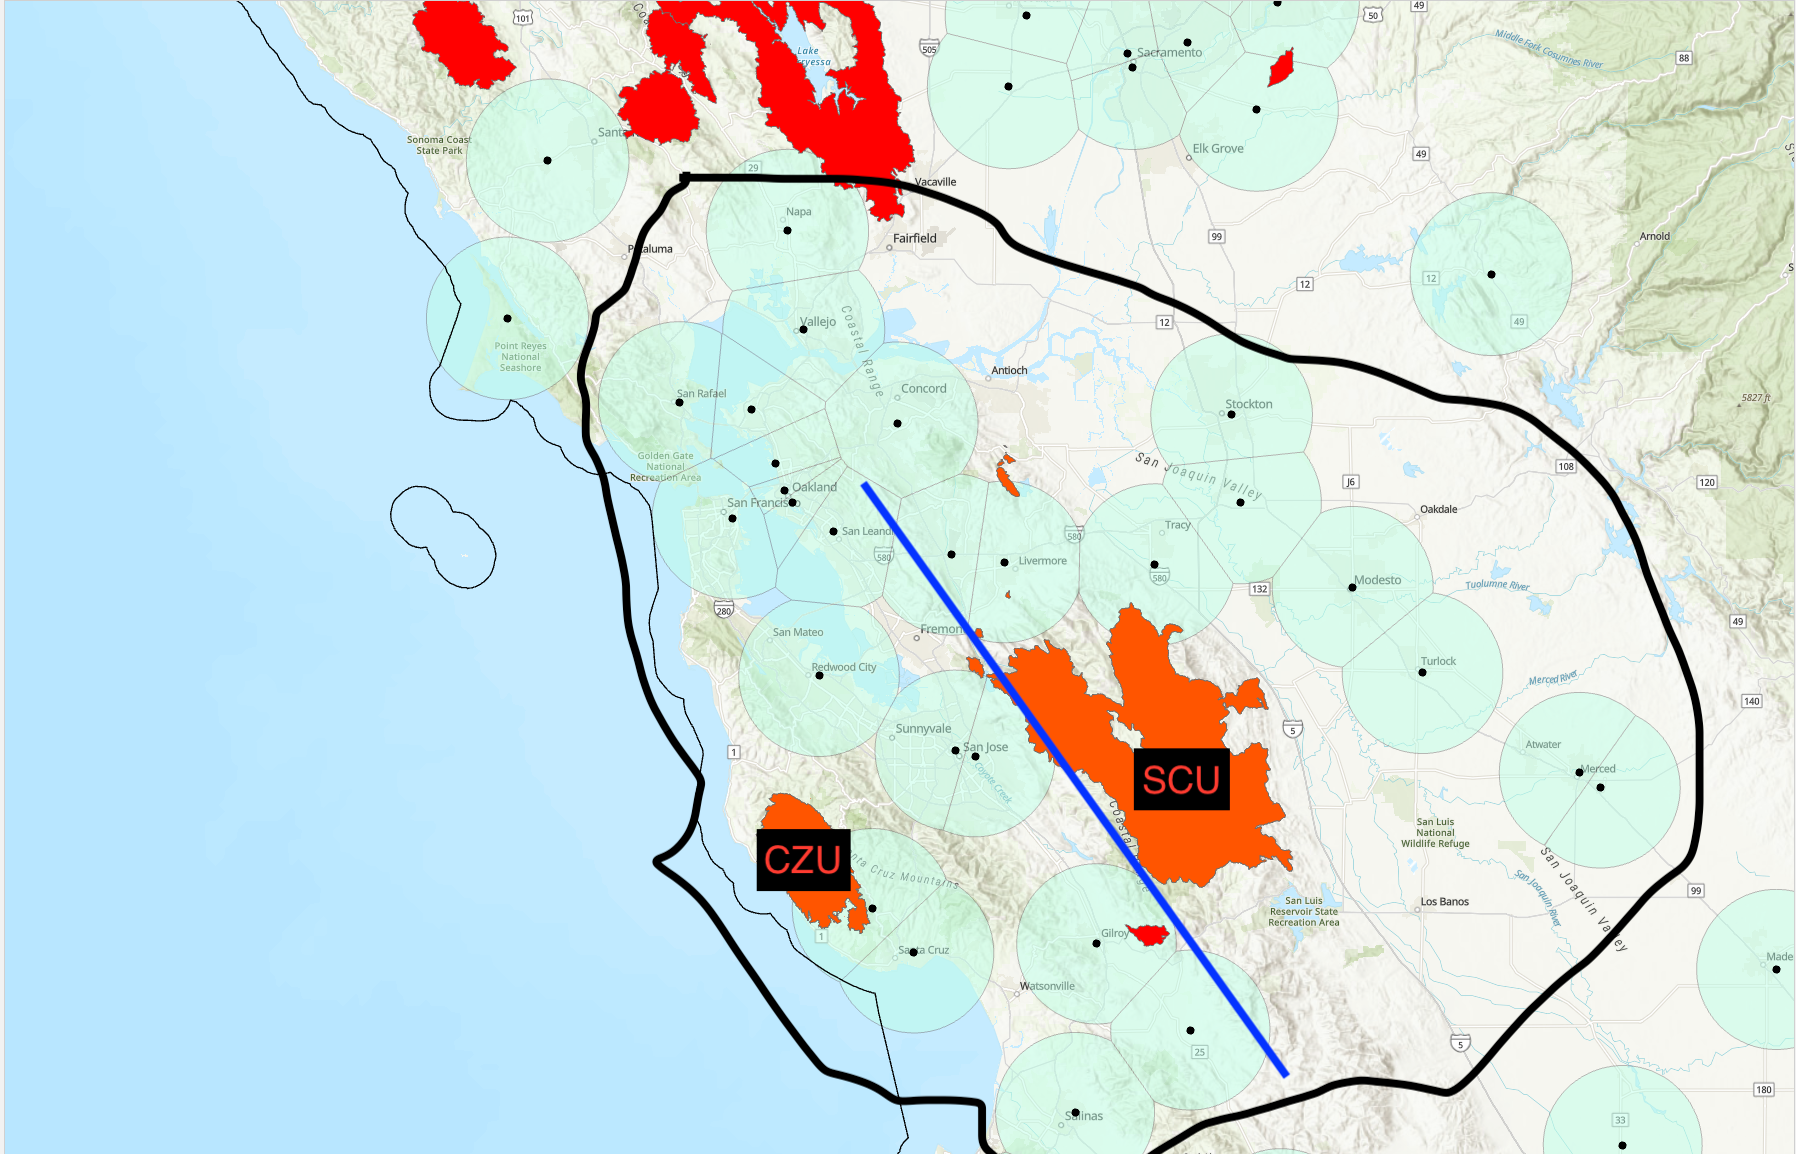
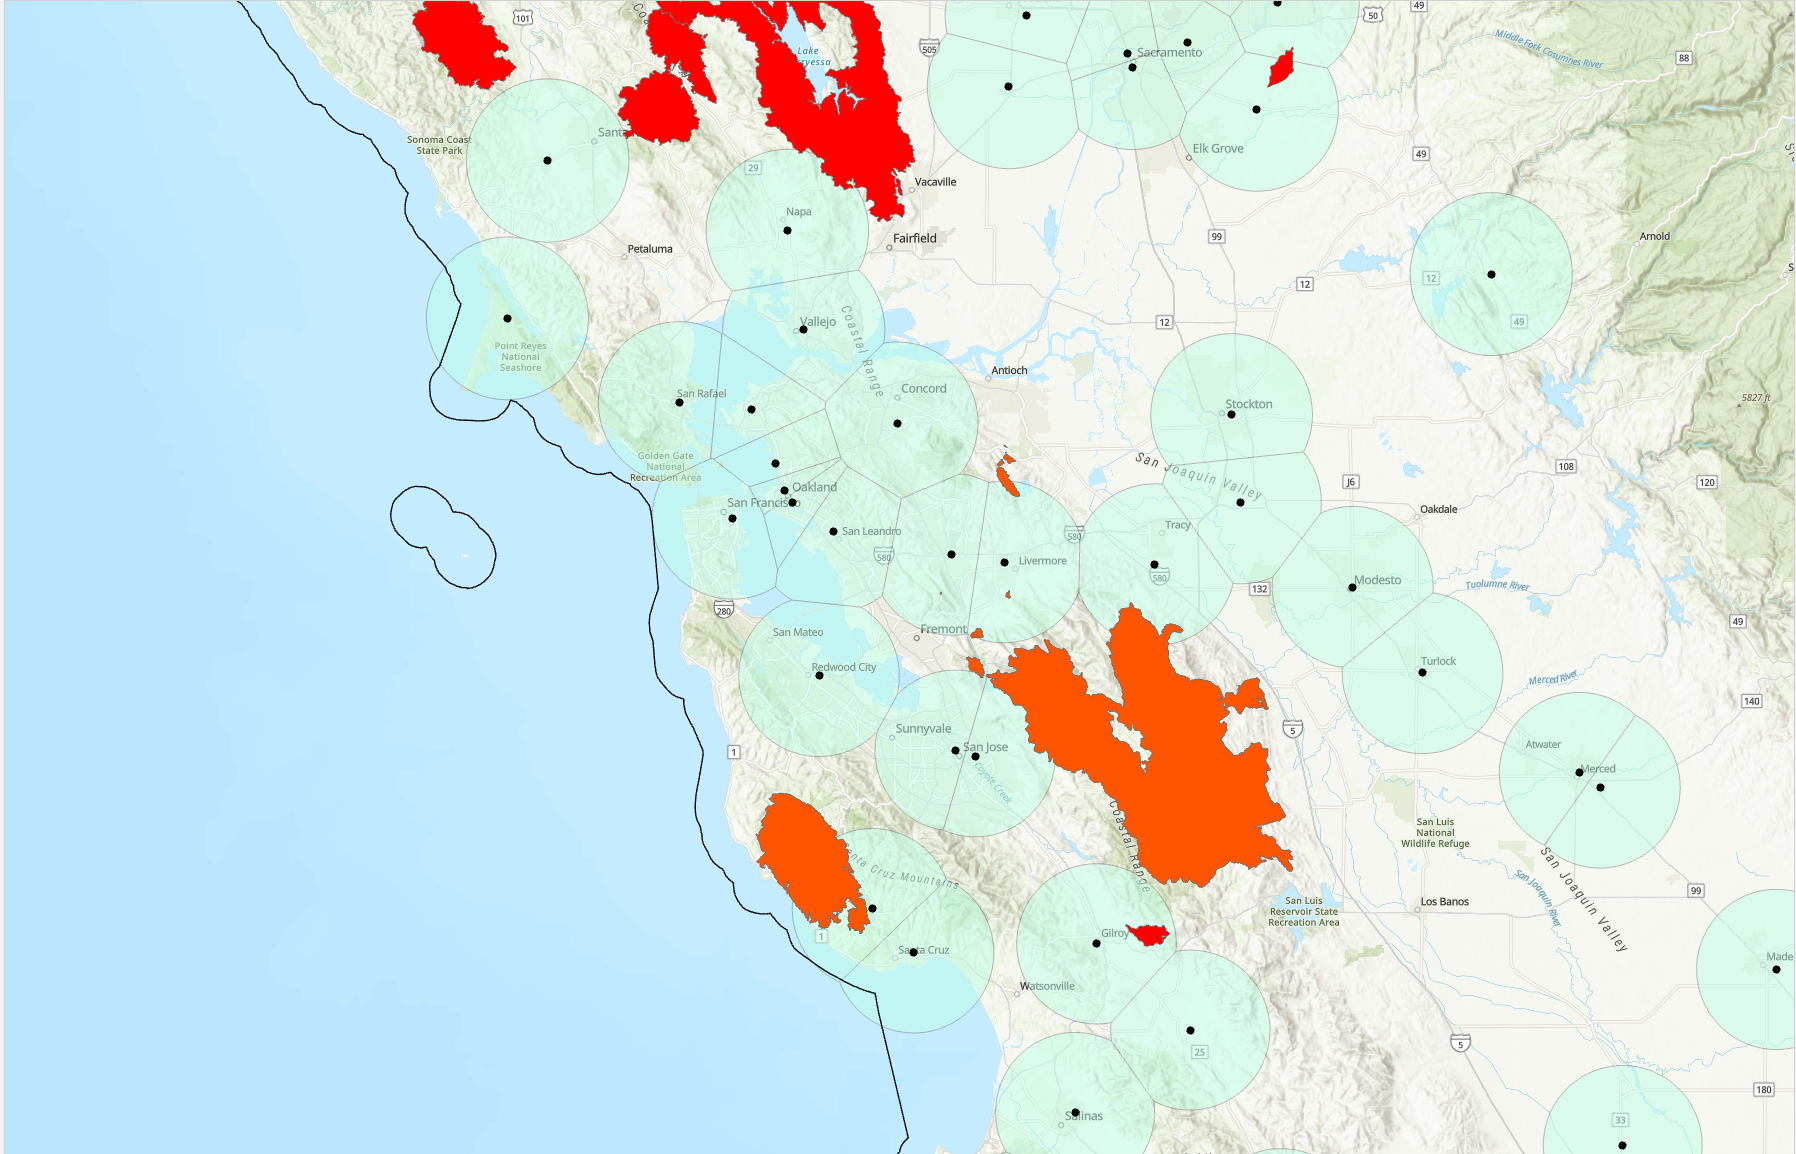
17th commit

diff --git a/content/post_1.md b/content/post_1.md
@@ -75,7 +75,7 @@ Mobility & AQI:
 ![valley-result](/./post_1_files/Valley-result.png)
 
 # Fire case 3: SCU Lightning Complex
-![SCU](/./post_1_files/silicon valley fire.png)
+![CZU-fire](/./post_1_files/SCU_CZU_fire.png)
 
 Start Date: 08/18/2020 
 
@@ -89,7 +89,8 @@ Mobility & AQI:
 ![scu-result](/./post_1_files/SCU_weekday_result.png)
 
 # Fire case 4: CZU Lightning Complex
-![czu](/./post_1_files/CZU fire.PNG)
+
+![CZU-fire](/./post_1_files/SCU_CZU_fire.png)
 
 Start Date: 08/16/2020 
 
